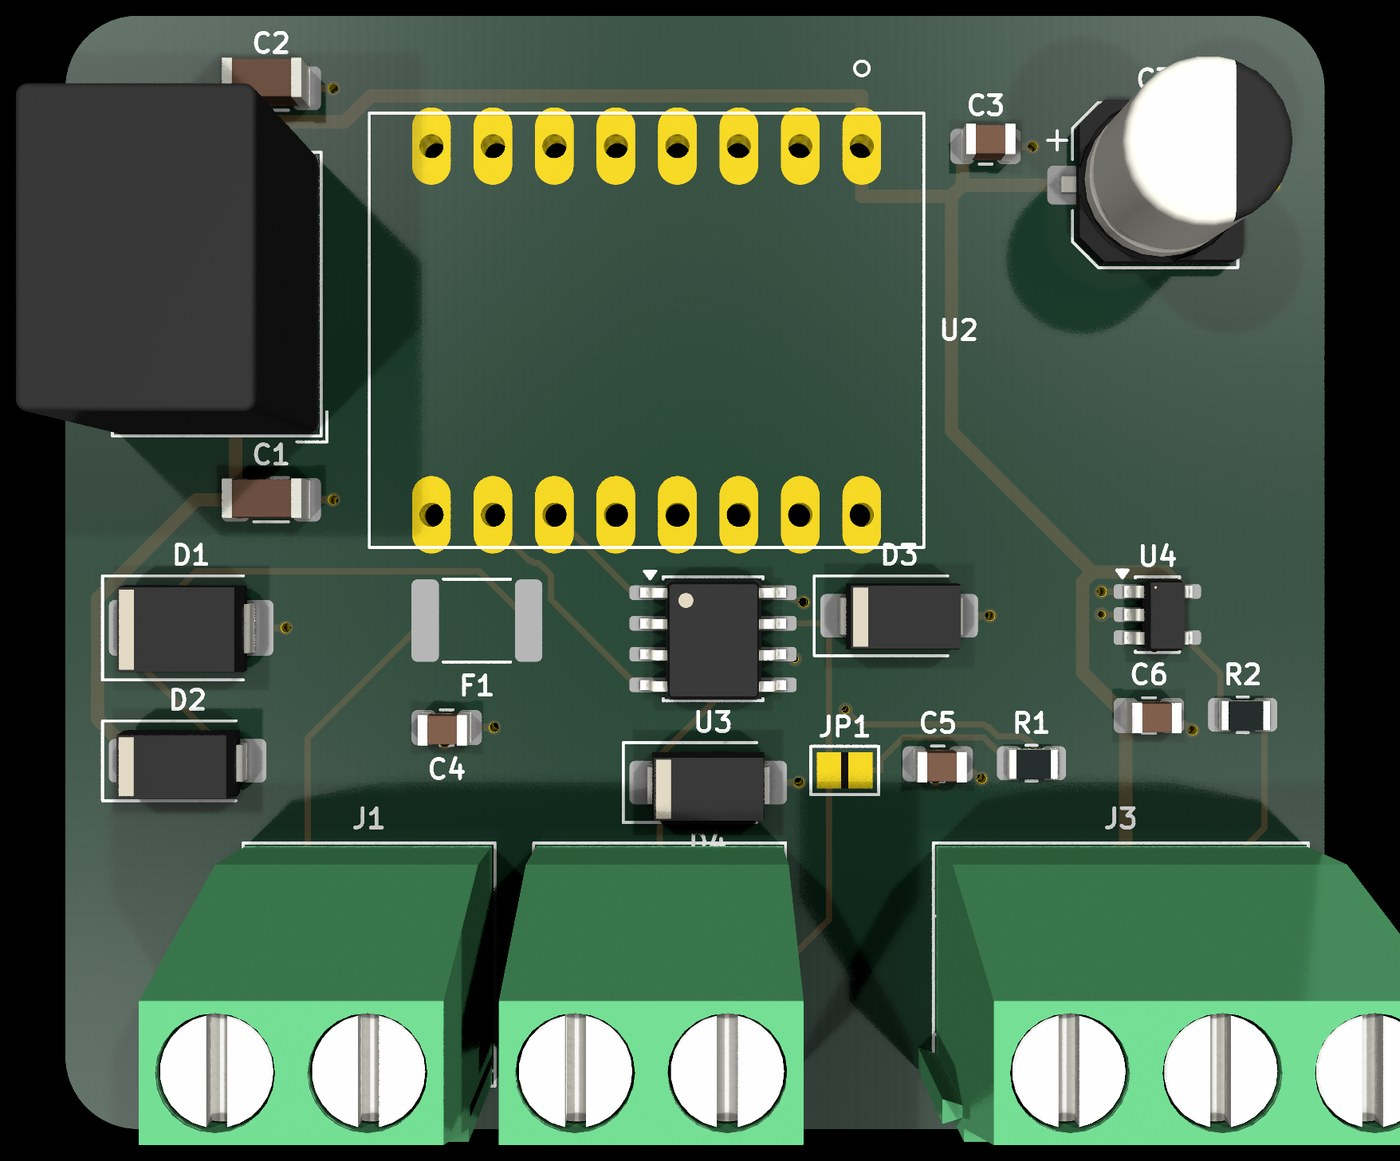
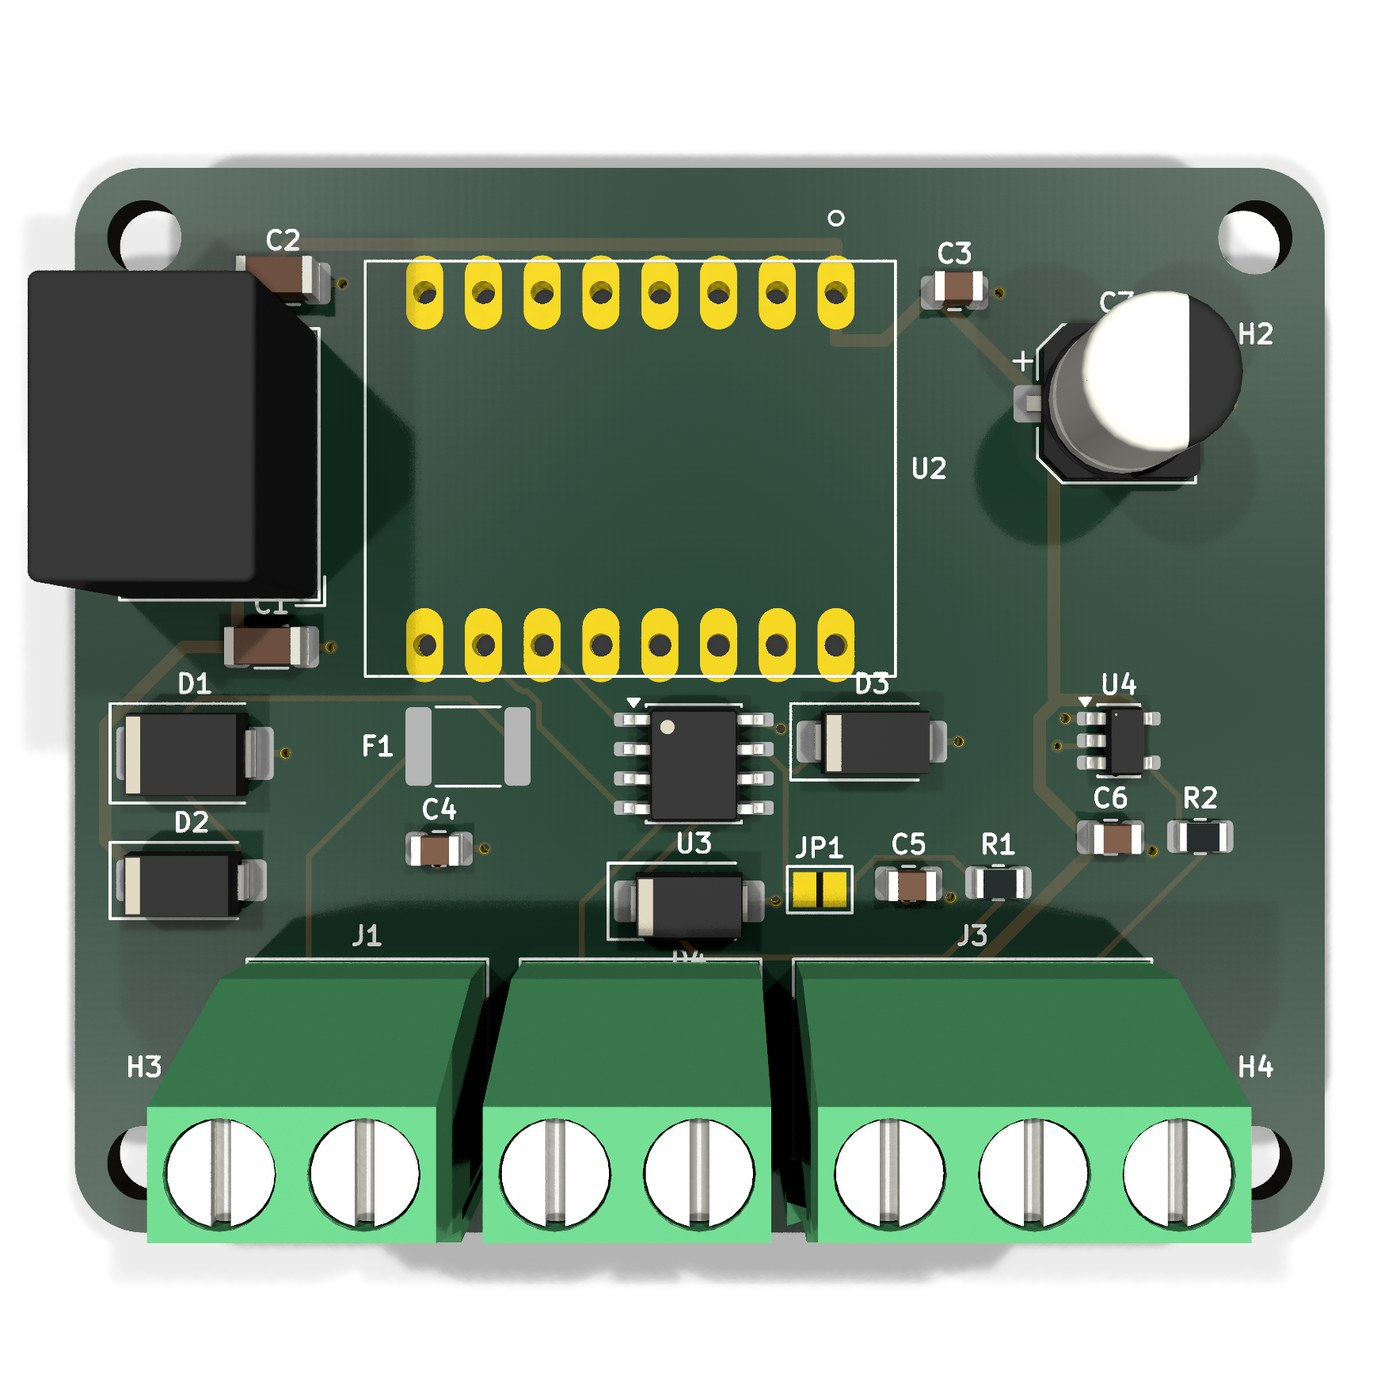
Update carrier board: four corner fixings, 54 mm wide
New render, new dimension, and the mounting hardware on the parts list. Adds
a note about the JLC placement preview: KiCad and LCSC disagree by a right
angle on the SOIC-8 and the SOT-23-5, so the placement file carries a -90 for
those two and the board itself is untouched.

Claude-Session: https://claude.ai/code/session_019JDwAzt7AoT4wBDzqtgojv

diff --git a/_posts/2026-07-11-r53-esp32-shift-light.md b/_posts/2026-07-11-r53-esp32-shift-light.md
@@ -191,7 +191,7 @@ Buck, not a resistor divider and not a linear regulator. A linear part dropping 
 Everything above works, and it is still a dev board, a CAN breakout, a USB buck module and a knot of jumper wires. Every one of those joints is a thing that vibrates loose in a car. So there is now a PCB that is all of it at once.
 
 ![The carrier board, rendered](/assets/images/r53-shift-light/carrier-board.jpg){:.img-lg}
-*52 x 46 mm, four layer. Three screw terminals along the bottom edge, the ESP32 soldered down in the middle with its USB-C facing the top edge, the CAN transceiver on the board rather than hanging off it.*
+*54 x 46 mm, four layer. Three screw terminals along the bottom edge, the ESP32 soldered down in the middle with its USB-C facing the top edge, the CAN transceiver on the board rather than hanging off it. M3 holes in all four corners, because a board that lives behind a dash needs to be bolted to something.*
 
 What changed against the loose-parts build:
 
@@ -199,6 +199,7 @@ What changed against the loose-parts build:
 - **The 12 V input is protected properly.** A resettable fuse, a bidirectional TVS clamping at 26 V, then a Schottky blocking reverse polarity, then the same switching regulator down to 5 V.
 - **The strip data line goes through a level shifter.** A WS2812B on a 5 V rail wants 3.5 V to read a logic high and the ESP32 puts out 3.3 V. It usually works. "Usually" is the problem, and a 74AHCT1G125 costs eight cents.
 - **Nothing plugs in.** The ESP32-C3 SuperMini is soldered down, not socketed. No socket to walk out of on a rough surface.
+- **It bolts down.** M3 clearance holes in all four corners, sized around a washer rather than the screw, so the row of terminals still has room to breathe. Cable-tying a bare PCB to a loom behind the dash is how you find out what a stray track can short against.
 
 The module sits on plated through-holes in oblong pads that run outward past its body. Mine has plain through-holes set in from the edge rather than castellated half-holes, and a flat SMD land would have put the copper underneath it with no way to reach it. The oblong pads work either way, and take a module with header pins already fitted too.
 
@@ -230,12 +231,15 @@ where any equivalent of the right rating will do.
 | R2 | 330 Ω | 1 | 0805 | — | series damping on the data line |
 | J1, J2 | 2-way screw terminal | 2 | 5.08 mm | — | 12 V in, CAN |
 | J3 | 3-way screw terminal | 1 | 5.08 mm | — | shift light |
+| H1–H4 | M3 × 8 screw, washer, nut | 4 | — | — | corner fixings, hardware-store parts |
 
 JP1 is not on the list because it is not a part: it is a solder jumper, two
-pads on the board, and it stays open.
+pads on the board, and it stays open. The M3 hardware is on it for the sake of
+ordering, not because JLC ships it.
 
 Two of those rows are worth a sentence, because both were wrong in an earlier
-version of this page and both would have cost money.
+version of this page and both would have cost money. A third thing is worth
+knowing before you upload anything.
 
 **U4 was listed as `C129276`.** That number is an STM32F767BIT6 — a 216 MHz
 microcontroller, about thirty dollars each. JLC's matcher offered it without
@@ -248,6 +252,16 @@ suffix is SOT-353, not the SOT-23-5 land on the board. `GV` is SOT-753, which
 LCSC is rated 8 V, and this fuse sits *ahead* of the TVS, where it sees the raw
 harness including whatever the alternator is doing. An 8 V part on a 12 V line
 is not protection.
+
+**Check the placement preview, and expect two parts to be turned.** KiCad and
+LCSC do not agree on which way a part points inside its own package, and for
+two of these — the SOIC-8 transceiver and the SOT-23-5 buffer — the disagreement
+is a right angle. JLC's preview shows both 90 degrees off. Nothing is wrong with
+the board; the placement file is what needs correcting, so the design applies a
+−90 to those two footprints on the way out to `positions.csv` and leaves the
+copper alone. It is worth a look at the preview regardless. It is the only
+stage of the whole order where a human sees the parts on the board before a
+machine puts them there.
 
 Off the board you still need the eight-LED WS2812B strip, an add-a-fuse, and
 wire.
